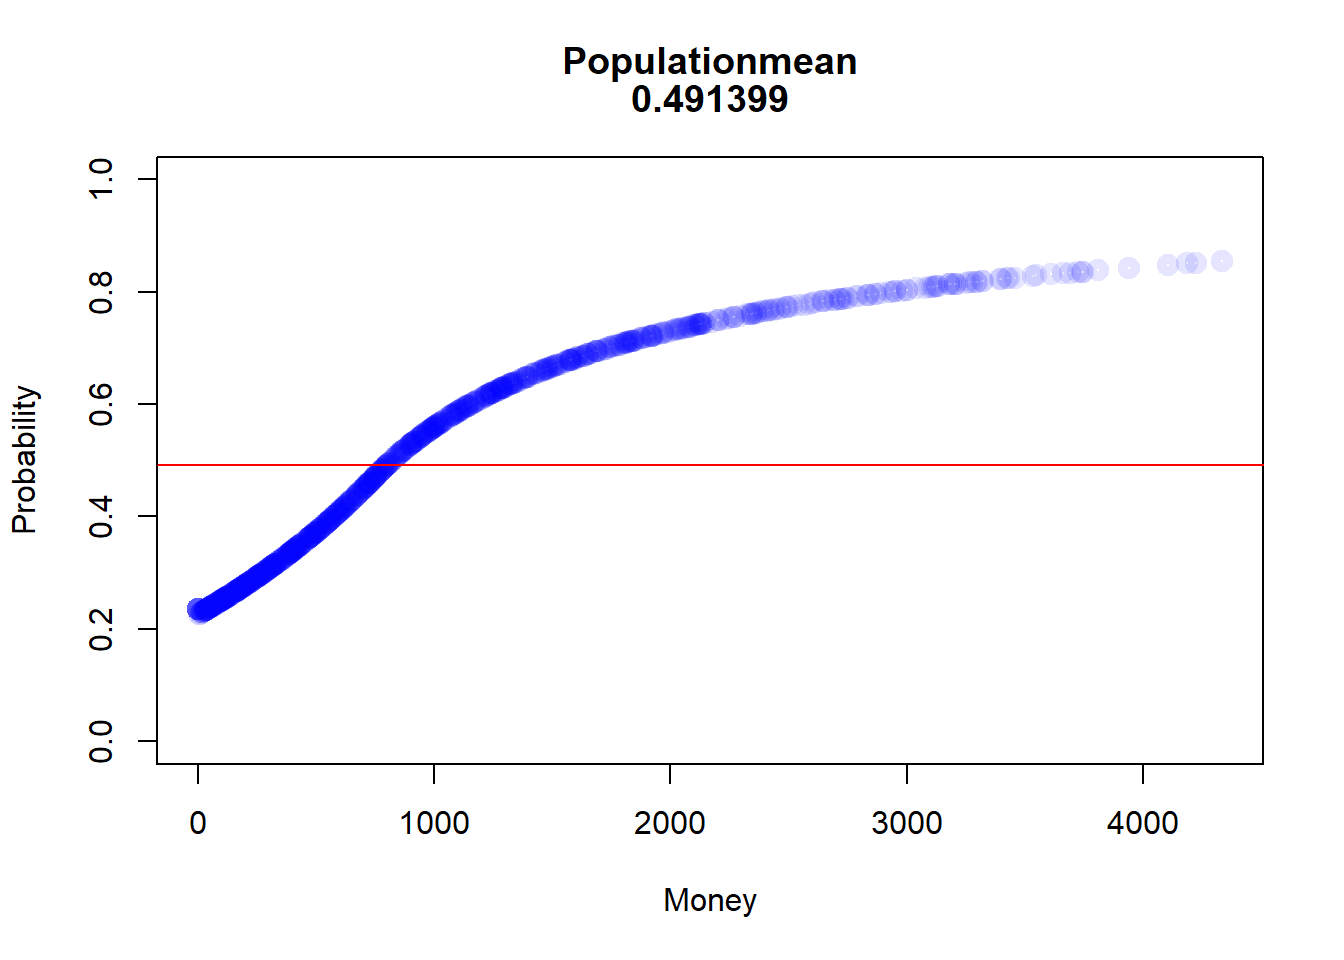
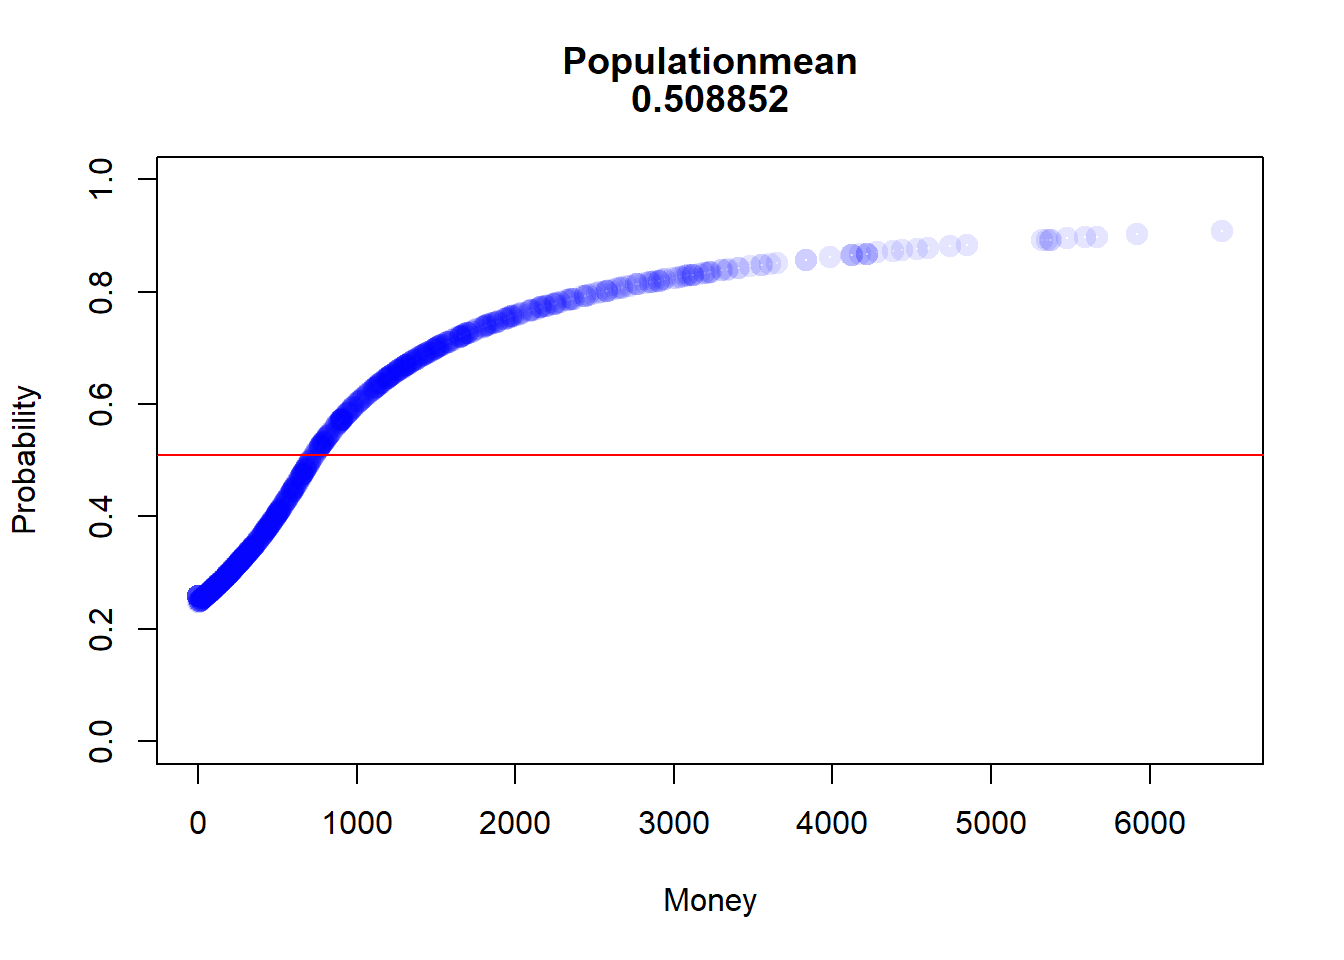
hw2

diff --git a/docs/hw2/sketchbook.html b/docs/hw2/sketchbook.html
@@ -862,7 +862,7 @@ pre > code.sourceCode > span > a:first-child::before { text-decoration: underlin
 <details class="code-fold"><summary>Code</summary><div class="sourceCode" id="cb44"><pre class="downlit sourceCode r code-with-copy"><code class="sourceCode R"><span><span class="va">df15_even</span> <span class="op">&lt;-</span> <span class="fu">SplitRandomR</span><span class="op">(</span><span class="fl">1000</span>,<span class="fl">15</span>,<span class="fl">1000</span>,<span class="fl">0</span><span class="op">)</span></span>
 <span></span>
 <span><span class="va">prob_after15</span> <span class="op">&lt;-</span> <span class="fu">win_stab_prob</span><span class="op">(</span><span class="va">df15_even</span><span class="op">$</span><span class="va">Me</span><span class="op">)</span></span>
-<span><span class="va">prob_after15</span> <span class="op">&lt;-</span> <span class="va">prob_after3</span><span class="op">[</span><span class="fu"><a href="https://rdrr.io/r/base/order.html">order</a></span><span class="op">(</span><span class="va">prob_after15</span><span class="op">$</span><span class="va">Money</span>, decreasing <span class="op">=</span> <span class="cn">FALSE</span><span class="op">)</span>, <span class="op">]</span></span>
+<span><span class="va">prob_after15</span> <span class="op">&lt;-</span> <span class="va">prob_after15</span><span class="op">[</span><span class="fu"><a href="https://rdrr.io/r/base/order.html">order</a></span><span class="op">(</span><span class="va">prob_after15</span><span class="op">$</span><span class="va">Money</span>, decreasing <span class="op">=</span> <span class="cn">FALSE</span><span class="op">)</span>, <span class="op">]</span></span>
 <span><span class="va">popMean</span> <span class="op">&lt;-</span> <span class="fu"><a href="https://rdrr.io/r/base/mean.html">mean</a></span><span class="op">(</span><span class="va">prob_after15</span><span class="op">[</span>, <span class="fl">2</span><span class="op">]</span><span class="op">)</span></span>
 <span><span class="fu"><a href="https://rdrr.io/r/graphics/plot.default.html">plot</a></span><span class="op">(</span><span class="va">prob_after15</span>,</span>
 <span>     lwd <span class="op">=</span> <span class="fl">5</span>,</span>
@@ -1855,7 +1855,7 @@ window.document.addEventListener("DOMContentLoaded", function (event) {
 <span id="cb45-541"><a href="#cb45-541" aria-hidden="true" tabindex="-1"></a>df15_even <span class="ot">&lt;-</span> <span class="fu">SplitRandomR</span>(<span class="dv">1000</span>,<span class="dv">15</span>,<span class="dv">1000</span>,<span class="dv">0</span>)</span>
 <span id="cb45-542"><a href="#cb45-542" aria-hidden="true" tabindex="-1"></a></span>
 <span id="cb45-543"><a href="#cb45-543" aria-hidden="true" tabindex="-1"></a>prob_after15 <span class="ot">&lt;-</span> <span class="fu">win_stab_prob</span>(df15_even<span class="sc">$</span>Me)</span>
-<span id="cb45-544"><a href="#cb45-544" aria-hidden="true" tabindex="-1"></a>prob_after15 <span class="ot">&lt;-</span> prob_after3[<span class="fu">order</span>(prob_after15<span class="sc">$</span>Money, <span class="at">decreasing =</span> <span class="cn">FALSE</span>), ]</span>
+<span id="cb45-544"><a href="#cb45-544" aria-hidden="true" tabindex="-1"></a>prob_after15 <span class="ot">&lt;-</span> prob_after15[<span class="fu">order</span>(prob_after15<span class="sc">$</span>Money, <span class="at">decreasing =</span> <span class="cn">FALSE</span>), ]</span>
 <span id="cb45-545"><a href="#cb45-545" aria-hidden="true" tabindex="-1"></a>popMean <span class="ot">&lt;-</span> <span class="fu">mean</span>(prob_after15[, <span class="dv">2</span>])</span>
 <span id="cb45-546"><a href="#cb45-546" aria-hidden="true" tabindex="-1"></a><span class="fu">plot</span>(prob_after15,</span>
 <span id="cb45-547"><a href="#cb45-547" aria-hidden="true" tabindex="-1"></a>     <span class="at">lwd =</span> <span class="dv">5</span>,</span>
